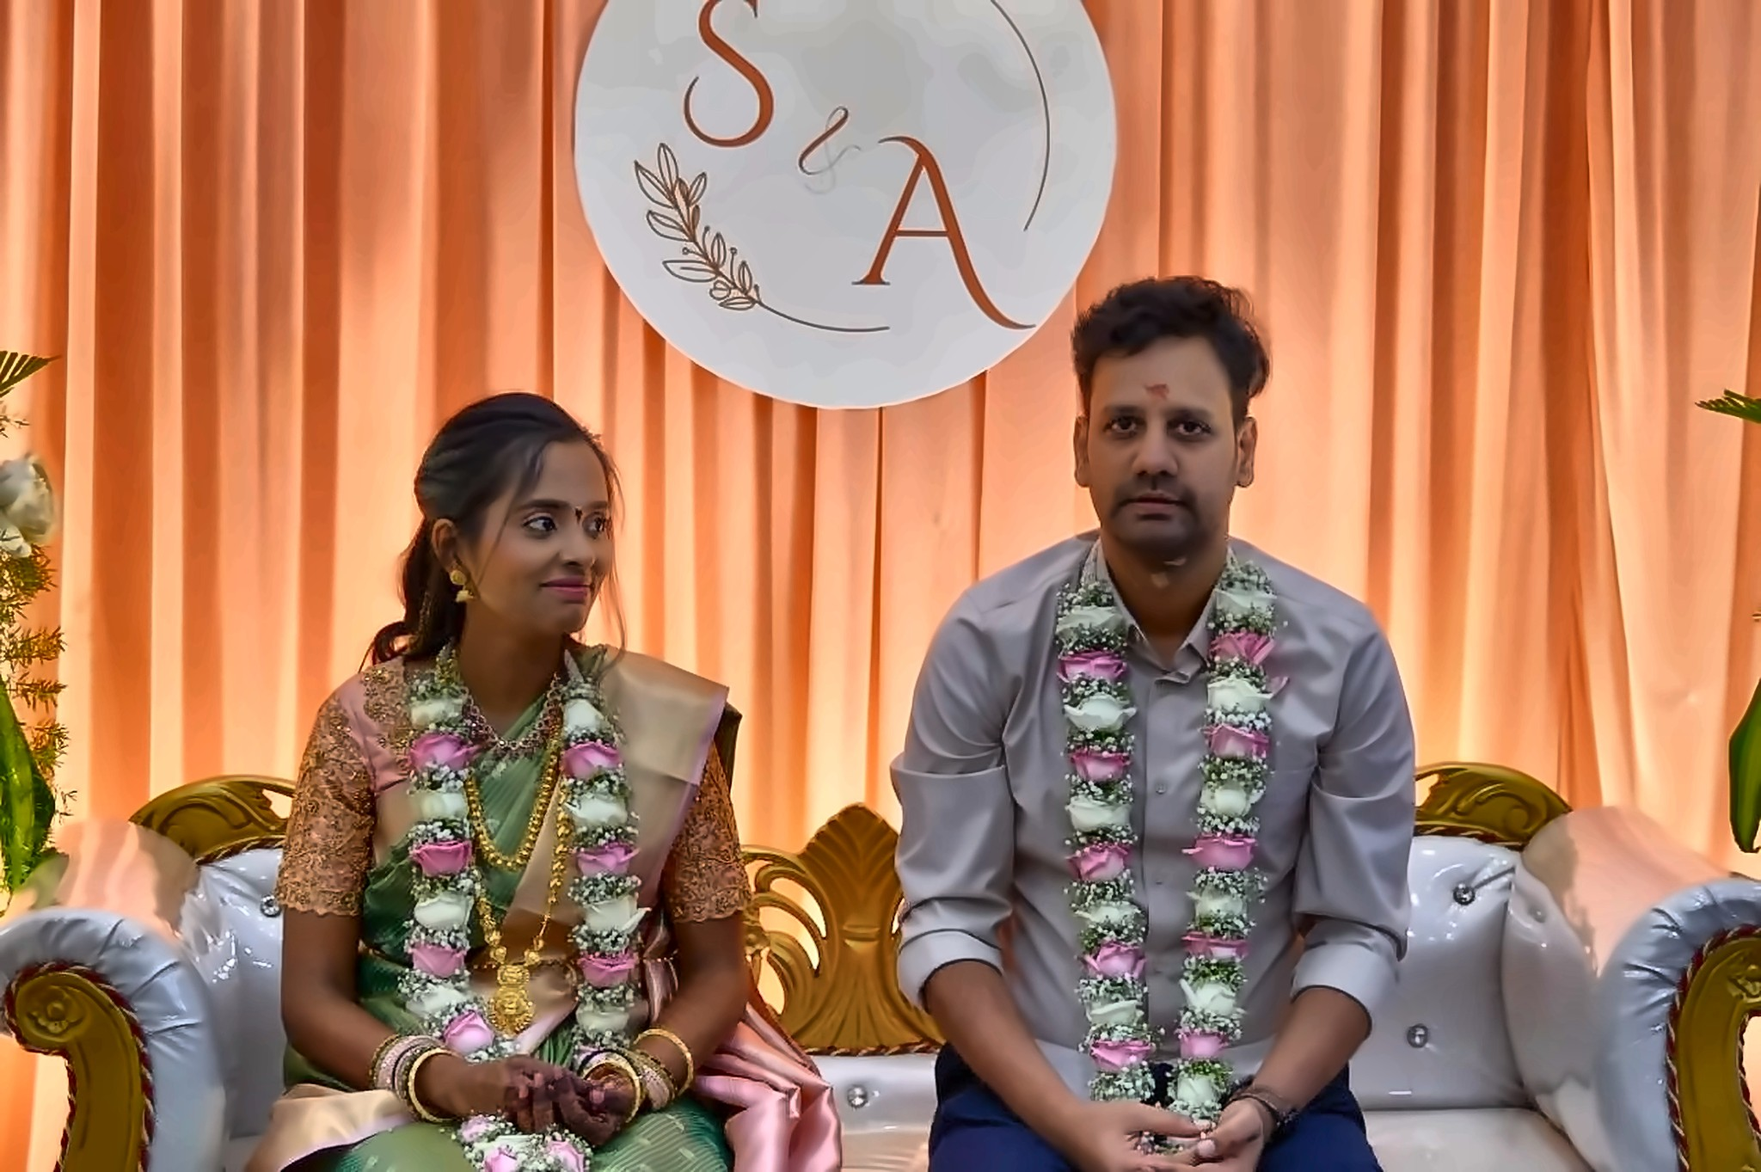
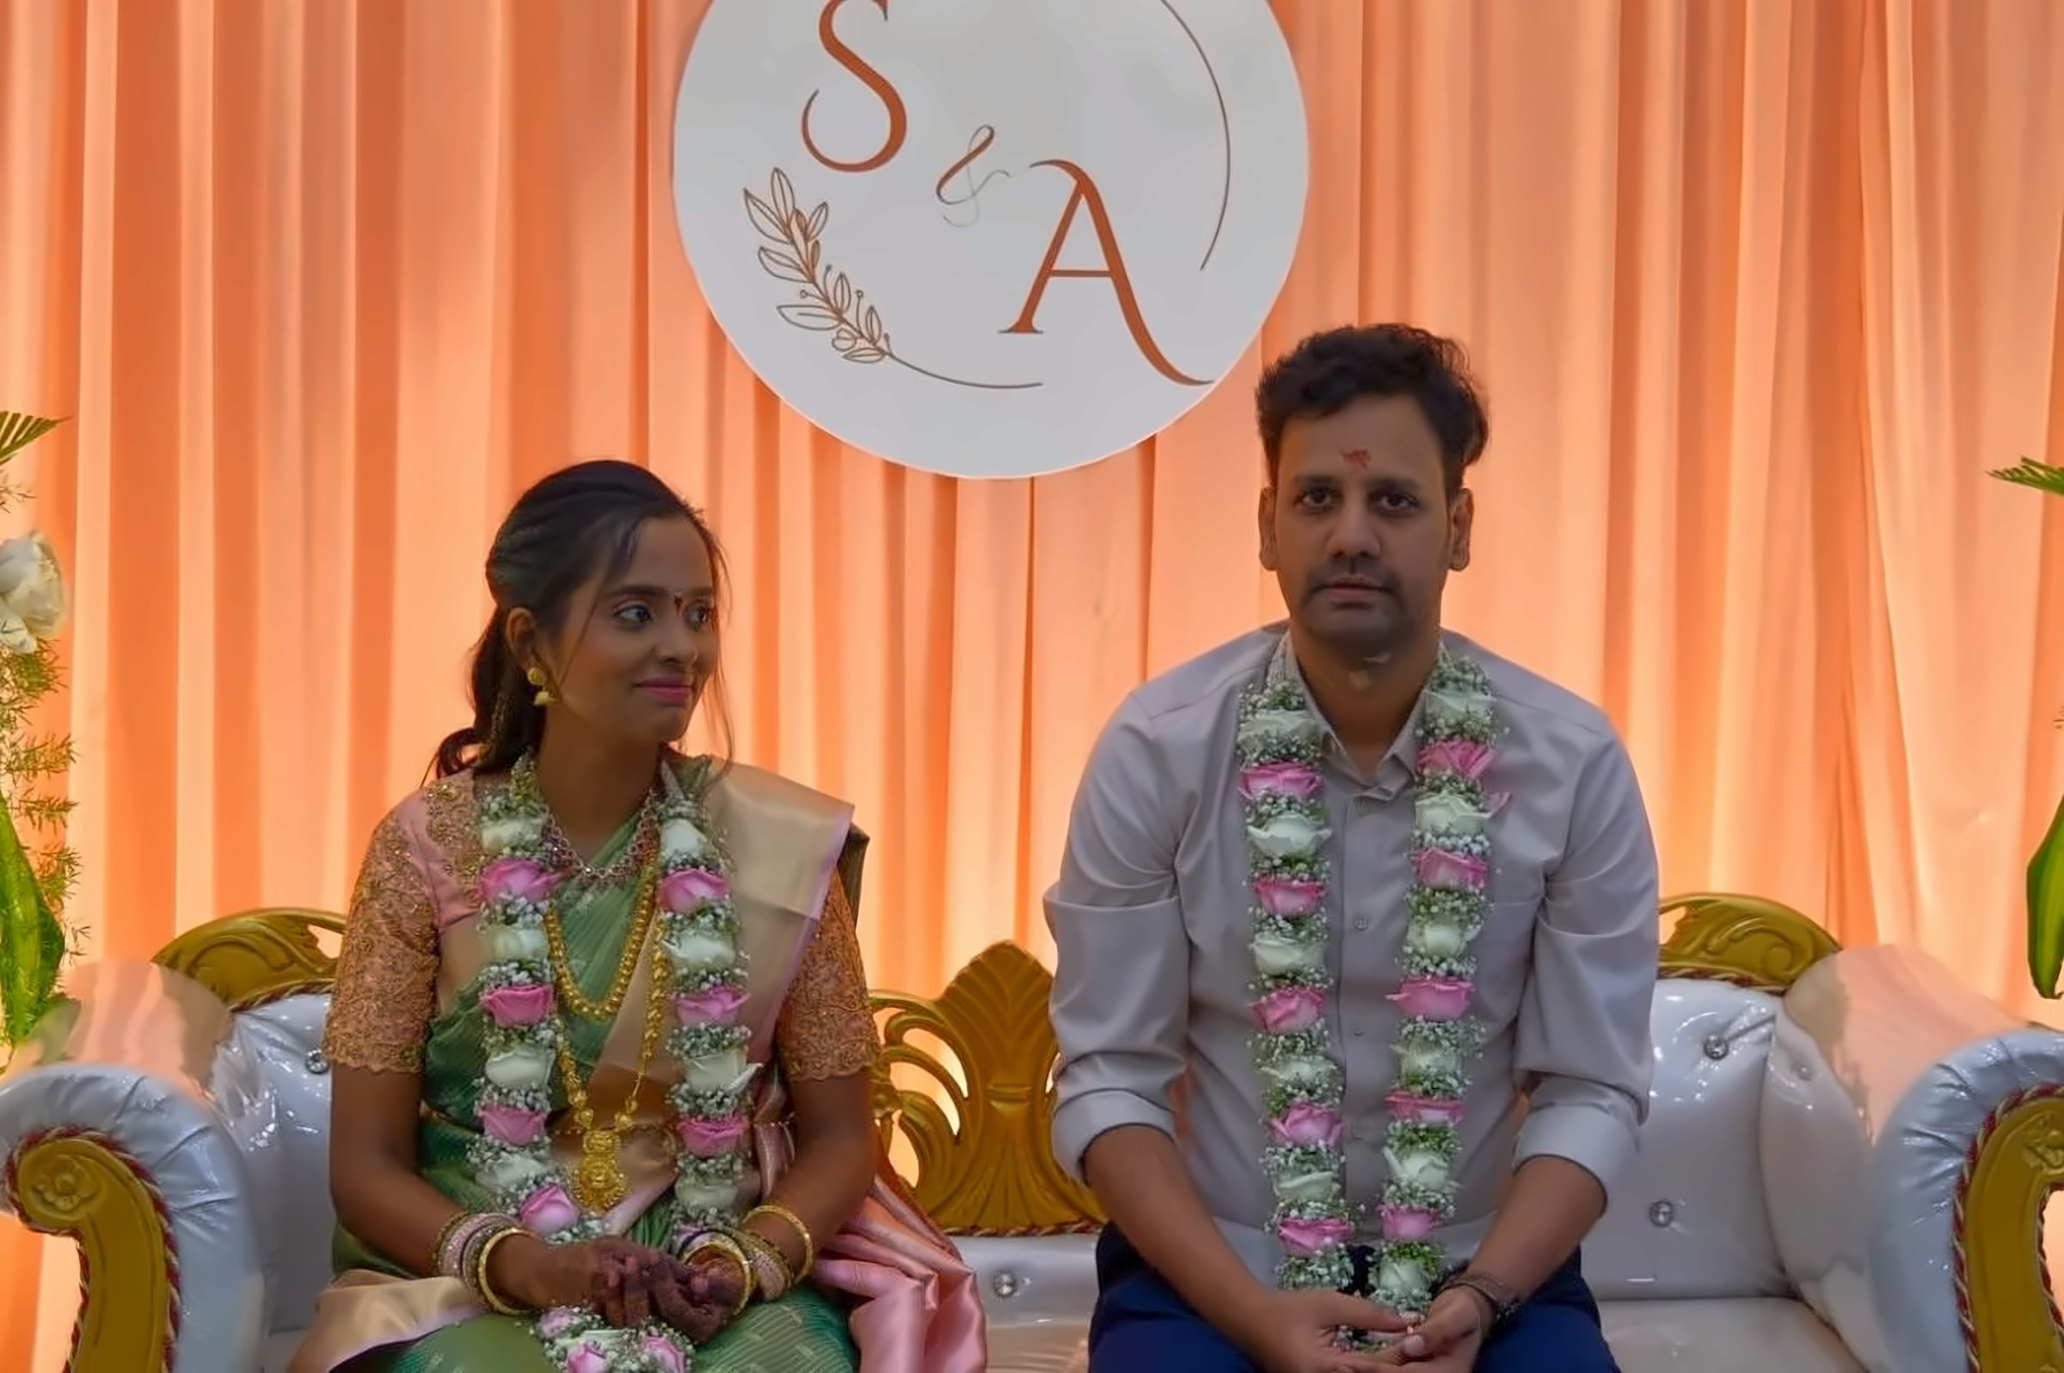
HD shimmer cards for every illustration; Tap to open is a button
- Every illustration opens as the shimmering card (like the silk saree),
  replacing the gold coins and cut-outs
- New 4x super-resolved artwork (EDSR) for each card in assets/hd, so the
  zoomed view is sharp instead of pixelated; preloaded after the invite opens
- Couple photo re-done with super-resolution (2400px, sharper detail)
- Tap to open under the envelope now opens the invitation too
- Ignore illustration taps while the envelope is still animating

diff --git a/app.js b/app.js
@@ -13,7 +13,6 @@
 
   // ───────── Artwork: one transparent PNG (1091×1442) cut into layers by region ─────────
   const BG = { src: "assets/bg.png", w: 1091, h: 1442 };
-  const GANESHA = { src: "assets/ganesha.png", w: 450, h: 555 };
   const S = 576 / BG.w; // image px → design units (card is 576 units wide)
 
   function sprite(el, img, [x, y, w, h]) {
@@ -21,7 +20,6 @@
     el.style.backgroundSize = `${(img.w / w) * 100}% ${(img.h / h) * 100}%`;
     el.style.backgroundPosition = `${w >= img.w ? 0 : (x / (img.w - w)) * 100}% ${h >= img.h ? 0 : (y / (img.h - h)) * 100}%`;
   }
-  const square = ([x, y, w, h]) => { const s = Math.max(w, h); return [x + w / 2 - s / 2, y + h / 2 - s / 2, s, s]; };
 
   // Corner layers, each lifted to its own depth for parallax.
   const LAYERS = {
@@ -35,37 +33,37 @@
   const ADDRESS = "SDB Grand Palace, No.22, Devaraj Nagar, Agaram Main Road, Selaiyur, Tambaram, Chennai - 600073";
 
   const ITEMS = [
-    { id: "ganesha", kind: "cutout", img: GANESHA, r: [105, 150, 260, 335],
+    { id: "ganesha", kind: "tile", hd: "assets/hd/ganesha.jpg", r: [105, 150, 260, 335],
       ta: "பிள்ளையார்", tl: "Pillaiyar", title: "Lord Ganesha",
       body: "Every Tamil wedding begins with a prayer to Pillaiyar, the remover of obstacles. His mark sits at the top of the invitation so that everything that follows goes smoothly." },
-    { id: "leaves", kind: "cutout", r: LAYERS.tl.r, hs: [["tl", [30, 40, 300, 380]]],
+    { id: "leaves", kind: "tile", hd: "assets/hd/leaves.jpg", r: [0, 0, 440, 575], hs: [["tl", [30, 40, 300, 380]]],
       ta: "வாழை", tl: "Vazhai", title: "Banana leaves",
       body: "Banana trees heavy with fruit are tied at the entrance of the wedding hall. The plant keeps sending up new shoots, so it stands for a family that grows and prospers for generations. The wedding feast is served on its leaf, too." },
-    { id: "marigold", kind: "coin", r: [30, 1185, 115, 115], hs: [["bl", [30, 1185, 115, 115]], ["tr", [1010, 185, 75, 70]]],
+    { id: "marigold", kind: "tile", hd: "assets/hd/marigold.jpg", r: [22, 1178, 130, 130], hs: [["bl", [30, 1185, 115, 115]], ["tr", [1010, 185, 75, 70]]],
       ta: "சாமந்தி", tl: "Saamandhi", title: "Marigold",
       body: "Golden marigolds are strung into the garlands and the mandapam decoration. Their saffron colour is the colour of auspicious beginnings." },
-    { id: "jasmine", kind: "coin", r: [30, 1080, 85, 80], hs: [["bl", [30, 1080, 85, 80]], ["tr", [965, 95, 70, 60]]],
+    { id: "jasmine", kind: "tile", hd: "assets/hd/jasmine.jpg", r: [8, 1055, 130, 130], hs: [["bl", [30, 1080, 85, 80]], ["tr", [965, 95, 70, 60]]],
       ta: "மல்லிகை", tl: "Malligai", title: "Jasmine",
       body: "Fresh Madurai malli is woven into the bride's hair and into the couple's garlands. Its fragrance stands for purity and love, and it fills the hall all day." },
-    { id: "lotus", kind: "coin", r: [120, 1115, 70, 75], hs: [["bl", [120, 1115, 70, 75]], ["tr", [838, 25, 62, 55]]],
+    { id: "lotus", kind: "tile", hd: "assets/hd/lotus.jpg", r: [90, 1088, 130, 130], hs: [["bl", [120, 1115, 70, 75]], ["tr", [838, 25, 62, 55]]],
       ta: "தாமரை மொட்டு", tl: "Thamarai mottu", title: "Lotus buds",
       body: "The lotus rises clean out of muddy water. Its buds stand for grace, new beginnings and the blessings of Goddess Lakshmi on the new home." },
-    { id: "strands", kind: "cutout", r: [1005, 260, 70, 200], hs: [["tr", [1005, 340, 70, 120]]],
+    { id: "strands", kind: "tile", hd: "assets/hd/strands.jpg", r: [961, 260, 130, 200], hs: [["tr", [1005, 340, 70, 120]]],
       ta: "தோரணம்", tl: "Thoranam", title: "Gold strands",
       body: "Strings of gold beads hang from the garland like the festoons over a temple doorway, welcoming everyone into a house of celebration." },
-    { id: "saree", kind: "tile", r: [745, 1040, 280, 230], hs: [["br", [770, 1070, 190, 160]]],
+    { id: "saree", kind: "tile", hd: "assets/hd/saree.jpg", r: [745, 1040, 280, 230], hs: [["br", [770, 1070, 190, 160]]],
       ta: "கூறைப் புடவை", tl: "Koorai pudavai", title: "Silk saree",
       body: "The koorai pudavai is the silk saree given by the groom's family. The bride changes into it for the muhurtham, the moment the thaali is tied. It arrives on a brass tray with the rest of the seer gifts." },
-    { id: "veshti", kind: "tile", r: [925, 1160, 166, 250], hs: [["br", [940, 1225, 145, 165]]],
+    { id: "veshti", kind: "tile", hd: "assets/hd/veshti.jpg", r: [925, 1160, 166, 250], hs: [["br", [940, 1225, 145, 165]]],
       ta: "பட்டு வேட்டி", tl: "Pattu veshti", title: "Silk veshti",
       body: "The groom's silk veshti and angavastram, white with a gold zari border, are given to him on the wedding day as part of the seer." },
-    { id: "sweets", kind: "coin", r: [850, 1250, 120, 120], hs: [["br", [860, 1265, 95, 95]]],
+    { id: "sweets", kind: "tile", hd: "assets/hd/sweets.jpg", r: [845, 1245, 130, 130], hs: [["br", [860, 1265, 95, 95]]],
       ta: "சீர் பட்சணம்", tl: "Seer bakshanam", title: "Wedding sweets",
       body: "Trays of laddu, athirasam and other sweets come with the seer from the bride's family, and are shared with relatives and guests." },
-    { id: "betel", kind: "coin", r: [962, 1082, 75, 75], hs: [["br", [960, 1080, 62, 62]]],
+    { id: "betel", kind: "tile", hd: "assets/hd/betel.jpg", r: [934, 1054, 130, 130], hs: [["br", [960, 1080, 62, 62]]],
       ta: "வெற்றிலை பாக்கு", tl: "Vetrilai paakku", title: "Betel leaves & areca nut",
       body: "Betel leaves and areca nut are exchanged when the families fix the wedding, and every guest takes some home in the thamboolam bag as thanks." },
-    { id: "manjal", kind: "coin", r: [1000, 1138, 91, 65], hs: [["br", [1008, 1140, 80, 60]]],
+    { id: "manjal", kind: "tile", hd: "assets/hd/manjal.jpg", r: [961, 1106, 130, 130], hs: [["br", [1008, 1140, 80, 60]]],
       ta: "மஞ்சள் குங்குமம்", tl: "Manjal kungumam", title: "Turmeric & kumkum",
       body: "Turmeric and kumkum are signs of a blessed marriage. They are offered to married women at the wedding, and the sacred thread of the thaali is dipped in turmeric." },
     { id: "reception", kind: "calendar", month: "NOV", day: "14", weekday: "Saturday",
@@ -249,6 +247,15 @@
     startTilt();
     busy = false;
     lockScroll(false);
+    preloadHd();
+  }
+
+  let hdLoaded = false;
+  function preloadHd() {
+    if (hdLoaded) return;
+    hdLoaded = true;
+    const load = () => ITEMS.forEach((it) => { if (it.hd) new Image().src = it.hd; });
+    (window.requestIdleCallback || setTimeout)(load, 1200);
   }
 
   // Back to the cover: the card shrinks into the envelope, the flap closes, the envelope turns over.
@@ -326,6 +333,7 @@
   }
 
   env.addEventListener("click", () => openInvite());
+  $("#tapHint").addEventListener("click", () => openInvite());
   $("#toCover").addEventListener("click", closeInvite);
   // Cover button gets out of the way while reading (scrolling down) and returns on scroll up
   let lastY = 0;
@@ -404,57 +412,36 @@
     return d;
   }
 
+  // Every illustration opens as a shimmering card showing its upscaled artwork; the dates as a desk calendar.
   function buildObject(it) {
     const sr = stage.getBoundingClientRect();
-    const box = Math.max(150, Math.min(sr.width * 0.66, sr.height * 0.72, 320));
+    const box = Math.max(170, Math.min(sr.width * 0.72, sr.height * 0.74, 440));
     const o = document.createElement("div");
-    o.className = "obj " + it.kind;
+    o.className = "obj tile";
     let w = box, h = box;
-    const img = it.img || BG;
-
-    if (it.kind === "cutout" || it.kind === "tile") {
+    if (it.kind === "tile") {
       const ar = it.r[2] / it.r[3];
       if (ar > 1) h = box / ar; else w = box * ar;
-    } else if (it.kind === "coin") { w = h = box * 0.86; }
-    else { w = box * 0.78; h = box * 0.92; }
+    } else { w = box * 0.78; h = box * 0.92; }
     o.style.width = w + "px";
     o.style.height = h + "px";
 
-    if (it.kind === "cutout") {
-      for (let i = 9; i >= 1; i--) { const l = layer("edge", -i * 1.6); sprite(l, img, it.r); o.appendChild(l); }
-      const f = layer("face", 0); sprite(f, img, it.r); o.appendChild(f);
-    } else if (it.kind === "coin") {
-      for (let i = 10; i >= 0; i--) o.appendChild(layer("rim" + (i ? " edge-rim" : ""), -i * 1.5));
-      const f = layer("face", 0.6); sprite(f, BG, square(it.r)); o.appendChild(f);
+    for (let i = 10; i >= 1; i--) o.appendChild(layer("slab edge", -i * 1.4));
+    const f = layer("face", 0);
+    if (it.kind === "tile") {
+      f.style.backgroundImage = `url("${it.hd}")`;
+      f.style.backgroundSize = "100% 100%";
     } else {
-      for (let i = 10; i >= 1; i--) o.appendChild(layer("slab edge", -i * 1.4));
-      const f = layer("face", 0);
-      if (it.kind === "tile") sprite(f, BG, it.r);
-      else if (it.kind === "calendar") {
-        f.classList.add("cal-face");
-        f.innerHTML = `<div class="cal-top">${it.month} 2026</div><div class="cal-num">${it.day}</div><div class="cal-day">${it.weekday}</div>`;
-      } else {
-        f.classList.add("map-face");
-        f.innerHTML = `<span class="pond"></span>`;
-      }
-      o.appendChild(f);
-      if (it.kind === "map") {
-        const sh = document.createElement("div"); sh.className = "pin-shadow"; o.appendChild(sh);
-        const pin = document.createElement("div"); pin.className = "pin";
-        pin.innerHTML = `<svg viewBox="0 0 48 64"><path d="M24 2C12 2 3 11 3 23c0 16 21 39 21 39s21-23 21-39C45 11 36 2 24 2z" fill="#7e2a34"/><circle cx="24" cy="23" r="9" fill="#fbe2ad"/></svg>`;
-        o.appendChild(pin);
-      }
+      f.classList.add("cal-face");
+      f.innerHTML = `<div class="cal-top">${it.month} 2026</div><div class="cal-num">${it.day}</div><div class="cal-day">${it.weekday}</div>`;
     }
+    o.appendChild(f);
     const shine = document.createElement("div"); shine.className = "ly shine"; shine.style.transform = "translateZ(1px)";
-    if (it.kind === "coin") shine.style.borderRadius = "50%";
-    if (it.kind !== "cutout") o.appendChild(shine);
+    o.appendChild(shine);
     const shadow = document.createElement("div"); shadow.className = "shadow"; o.appendChild(shadow);
     return o;
   }
-  // coin rims get the gold gradient via the .rim class
-  const styleFix = document.createElement("style");
-  styleFix.textContent = ".obj.coin .edge-rim{filter:brightness(.6)}";
-  document.head.appendChild(styleFix);
+
 
   function icsFor(it) {
     const now = new Date().toISOString().replace(/[-:]/g, "").replace(/\.\d+/, "");
@@ -479,16 +466,6 @@
       link("Add to Google Calendar", "https://calendar.google.com/calendar/render?" + q, true);
       const a = link("Apple / Outlook (.ics)", URL.createObjectURL(new Blob([icsFor(it)], { type: "text/calendar" })));
       a.download = `sindhu-anand-${it.id}.ics`; a.removeAttribute("target");
-    } else if (it.kind === "map") {
-      link("Open in Google Maps", MAPS, true);
-      const b = document.createElement("button");
-      b.type = "button"; b.textContent = "Copy address";
-      b.onclick = async () => {
-        try { await navigator.clipboard.writeText(ADDRESS); b.textContent = "Copied"; }
-        catch { b.textContent = "Couldn't copy"; }
-        setTimeout(() => (b.textContent = "Copy address"), 1800);
-      };
-      box.appendChild(b);
     }
     box.hidden = !box.children.length;
   }
@@ -530,7 +507,7 @@
 
   document.addEventListener("click", (e) => {
     const t = e.target.closest("[data-item]");
-    if (!t || t.closest(".mini") || !opened) return;
+    if (!t || t.closest(".mini") || !opened || busy) return;
     t.classList.remove("flash"); void t.offsetWidth; t.classList.add("flash");
     openInspector(t.dataset.item);
   });

diff --git a/styles.css b/styles.css
@@ -183,10 +183,13 @@ button { font: inherit; color: inherit; }
 .seal svg { width: 26px; height: 26px; }
 
 .tap-hint {
+  border: 0; background: none; cursor: pointer; padding: 12px 16px; border-radius: 999px; font-family: var(--f-body);
+  -webkit-tap-highlight-color: transparent;
   margin: 0; font-size: 12px; font-weight: 600; letter-spacing: .18em; text-transform: uppercase;
   color: var(--gold); display: flex; align-items: center; gap: 10px;
   animation: breathe 2.4s ease-in-out infinite;
 }
+@media (hover: hover) { .tap-hint:hover { color: var(--gold-bright); } }
 .tap-hint::before { content: ""; width: 8px; height: 8px; border-radius: 50%; background: var(--marigold); box-shadow: 0 0 0 0 rgba(233, 162, 59, .6); animation: ping 2.4s ease-out infinite; }
 
 @keyframes float { 0%, 100% { transform: translateY(0) rotate(-.4deg); } 50% { transform: translateY(-8px) rotate(.4deg); } }
@@ -483,7 +486,7 @@ body:not(.is-open) .after-open { display: none !important; }
   from { transform: rotateX(70deg) rotateZ(-6deg) translateY(80px) scale(.6); opacity: 0; }
   to { transform: none; opacity: 1; }
 }
-.print img { display: block; width: 100%; height: auto; aspect-ratio: 2048 / 1363; object-fit: cover; }
+.print img { display: block; width: 100%; height: auto; aspect-ratio: 2400 / 1597; object-fit: cover; }
 .print figcaption { text-align: center; padding: 8px 0 12px; }
 .pc-names { font-family: var(--f-script); font-size: clamp(26px, 6vw, 38px); color: var(--ink); position: relative; }
 .amp-r { font-family: var(--f-amp); color: var(--gold); font-size: 1.15em; }
@@ -512,15 +515,11 @@ body:not(.is-open) .after-open { display: none !important; }
 }
 .obj { position: relative; transform-style: preserve-3d; }
 .obj .ly { position: absolute; inset: 0; background-repeat: no-repeat; backface-visibility: visible; }
-.obj .edge { filter: brightness(.55) saturate(.9); }
 .obj .shine {
   position: absolute; inset: 0; pointer-events: none;
   background: linear-gradient(110deg, transparent 35%, rgba(255, 255, 255, .5) 50%, transparent 65%);
   background-size: 300% 100%; background-position: var(--sx, 50%) 0; mix-blend-mode: soft-light;
 }
-.obj.coin .ly { border-radius: 50%; }
-.obj.coin .rim { background: radial-gradient(circle at 35% 30%, #f6dfa6, #b48a4a 60%, #7d5b26); }
-.obj.coin .face { inset: 7%; box-shadow: inset 0 0 0 2px rgba(125, 91, 38, .5), inset 0 0 18px rgba(0, 0, 0, .25); background-color: var(--paper); }
 .obj.tile .ly { border-radius: 14px; }
 .obj.tile .slab { background: #e9e1cf; }
 .obj.tile .slab.edge { background: #b9ab8e; filter: none; }
@@ -536,19 +535,6 @@ body:not(.is-open) .after-open { display: none !important; }
 .cal-top::before { left: 26%; } .cal-top::after { right: 26%; }
 .cal-num { flex: 1; display: grid; place-items: center; font-family: var(--f-script); font-size: 96px; line-height: 1; color: var(--ink); }
 .cal-day { text-align: center; padding-bottom: 10%; font-size: 12px; font-weight: 700; letter-spacing: .2em; text-transform: uppercase; color: var(--ink-soft); }
-/* map */
-.map-face {
-  background:
-    linear-gradient(90deg, transparent 47%, #fff 47% 53%, transparent 53%),
-    linear-gradient(0deg, transparent 30%, #fff 30% 34%, transparent 34%),
-    linear-gradient(28deg, transparent 62%, #f7e7c6 62% 66%, transparent 66%),
-    linear-gradient(0deg, transparent 72%, #fff 72% 75%, transparent 75%),
-    #dfe8d2;
-}
-.map-face .pond { position: absolute; left: 10%; top: 12%; width: 26%; height: 18%; border-radius: 50%; background: #b9d3dc; }
-.pin { position: absolute; left: 50%; top: 50%; width: 64px; height: 64px; margin: -76px 0 0 -32px; transform: translateZ(46px); }
-.pin svg { width: 100%; height: 100%; filter: drop-shadow(0 8px 6px rgba(0, 0, 0, .35)); }
-.pin-shadow { position: absolute; left: 50%; top: 50%; width: 30px; height: 12px; margin: -6px 0 0 -15px; border-radius: 50%; background: rgba(0, 0, 0, .3); transform: translateZ(1px); }
 
 .insp-close, .insp-nav {
   position: absolute; z-index: 3; width: 44px; height: 44px; border-radius: 50%; border: 1px solid rgba(251, 226, 173, .35);

diff --git a/index.html b/index.html
@@ -25,7 +25,7 @@
 <link rel="stylesheet" href="https://fonts.googleapis.com/css2?family=Dancing+Script:wght@400;600&family=Manrope:wght@500;600;700;800&family=Hind+Madurai:wght@600&display=swap">
 <link rel="preload" as="image" href="assets/bg.png">
 <link rel="preload" as="font" type="font/woff2" href="assets/fonts/runethia-amp.woff2" crossorigin>
-<link rel="stylesheet" href="styles.css?v=20261005150251">
+<link rel="stylesheet" href="styles.css?v=20261005151456">
 </head>
 <body>
 <main class="page">
@@ -58,7 +58,7 @@
         </span>
       </span>
     </button>
-    <p class="tap-hint" id="tapHint">Tap to open</p>
+    <button class="tap-hint" id="tapHint" type="button">Tap to open</button>
   </section>
 
   <!-- The invitation (Figma "invitation" frame) -->
@@ -148,7 +148,7 @@
 <!-- Couple photo -->
 <div class="photo-box" id="photoBox" role="dialog" aria-modal="true" aria-label="Photo of Sindhu and Anand" hidden>
   <figure class="print" id="print">
-    <img src="assets/couple.jpg" alt="Sindhu and Anand on stage, garlanded, in front of their S &amp; A monogram" width="2048" height="1363" decoding="async">
+    <img src="assets/couple.jpg" alt="Sindhu and Anand on stage, garlanded, in front of their S &amp; A monogram" width="2400" height="1597" decoding="async">
     <figcaption><span class="pc-names">Sindhu <span class="amp-r">&amp;</span> Anand</span></figcaption>
   </figure>
   <button class="insp-close" type="button" id="photoClose" aria-label="Close photo"><svg viewBox="0 0 24 24" fill="none" stroke="currentColor" stroke-width="2" stroke-linecap="round"><path d="M6 6l12 12M18 6L6 18"/></svg></button>
@@ -156,8 +156,8 @@
 
 <canvas id="petals" aria-hidden="true"></canvas>
 
-<script src="config.js?v=20261005150251"></script>
-<script src="petals.js?v=20261005150251"></script>
-<script src="app.js?v=20261005150251"></script>
+<script src="config.js?v=20261005151456"></script>
+<script src="petals.js?v=20261005151456"></script>
+<script src="app.js?v=20261005151456"></script>
 </body>
 </html>

diff --git a/rsvp.html b/rsvp.html
@@ -10,7 +10,7 @@
 <link rel="preconnect" href="https://fonts.googleapis.com">
 <link rel="preconnect" href="https://fonts.gstatic.com" crossorigin>
 <link rel="stylesheet" href="https://fonts.googleapis.com/css2?family=Dancing+Script:wght@400;600&family=Manrope:wght@500;600;700;800&display=swap">
-<link rel="stylesheet" href="styles.css?v=20261005150251">
+<link rel="stylesheet" href="styles.css?v=20261005151456">
 </head>
 <body class="rsvp-page">
 <main class="page">
@@ -75,8 +75,8 @@
   <a class="back-link" id="backLink" href="index.html?open">← Back to the invitation</a>
 </main>
 <canvas id="petals" aria-hidden="true"></canvas>
-<script src="config.js?v=20261005150251"></script>
-<script src="petals.js?v=20261005150251"></script>
-<script src="rsvp.js?v=20261005150251"></script>
+<script src="config.js?v=20261005151456"></script>
+<script src="petals.js?v=20261005151456"></script>
+<script src="rsvp.js?v=20261005151456"></script>
 </body>
 </html>
